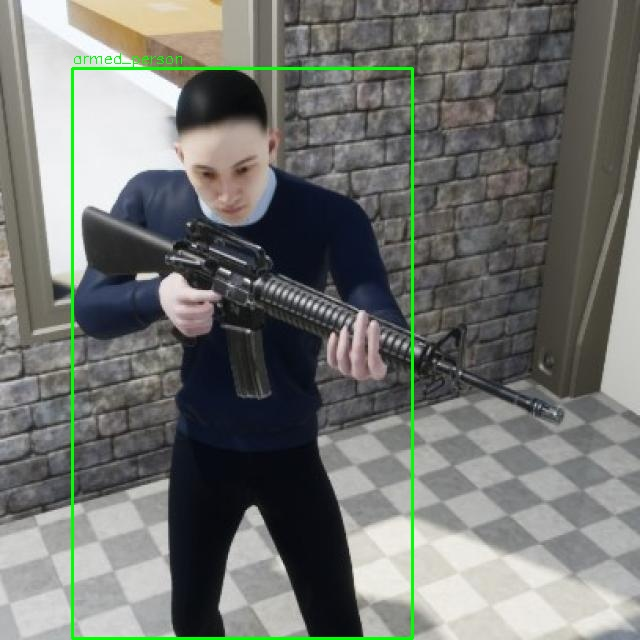
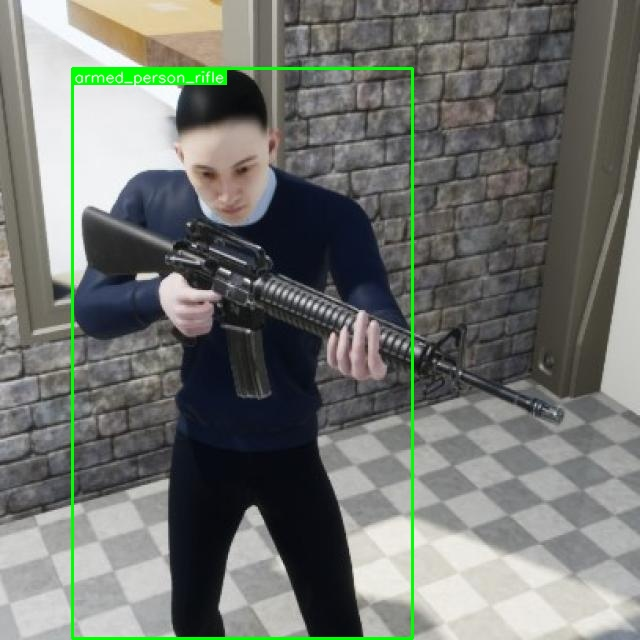
feat: distinction added

Changed region(s): [[0.0938, 0.0625, 0.375, 0.1562]]

diff --git a/detection/inference_merged_multiclass.py b/detection/inference_merged_multiclass.py
@@ -1,0 +1,110 @@
+from ultralytics import YOLO
+import glob, os
+import cv2
+from shapely.geometry import box
+
+# ─── CONFIG ───────────────────────────────────────────────────────────────────
+GUN_MODEL_PATH    = 'runs/detect/gun_detection7/weights/last.pt'
+PERSON_MODEL_PATH = 'yolov8l.pt'    # COCO-pretrained
+IMAGE_DIR         = './testset/train/images'
+OUTPUT_DIR        = './testset/train/merged_output'
+IOU_THRESHOLD     = 0.01
+CONF_GUN          = 0.5
+CONF_PERSON       = 0.5
+# ───────────────────────────────────────────────────────────────────────────────
+
+os.makedirs(OUTPUT_DIR, exist_ok=True)
+
+gun_model    = YOLO(GUN_MODEL_PATH)
+person_model = YOLO(PERSON_MODEL_PATH)
+
+def iou(a, b):
+    A = box(*a); B = box(*b)
+    inter = A.intersection(B).area
+    union = A.union(B).area
+    return inter/union if union>0 else 0
+
+for img_path in glob.glob(os.path.join(IMAGE_DIR, '*.jpg')):
+    # 1) Inference
+    gres = gun_model.predict(source=img_path,    conf=CONF_GUN,    classes=[1,2])
+    pres = person_model.predict(source=img_path, conf=CONF_PERSON, classes=[0])
+
+    # pair up each gun box with its predicted class (1=pistol, 2=rifle)
+    gun_boxes = []
+    for box_tensor, cls_tensor in zip(gres[0].boxes.xyxy, gres[0].boxes.cls):
+        xyxy = box_tensor.tolist()
+        cls  = int(cls_tensor.item())
+        gun_boxes.append((xyxy, cls))
+
+    person_boxes = pres[0].boxes.xyxy.tolist() if pres[0].boxes else []
+
+    img = cv2.imread(img_path)
+    merged = []
+
+    # 2) Match & union
+    for g_xyxy, g_cls in gun_boxes:
+        if not person_boxes:
+            continue
+        # find the person with highest IoU
+        best_p = max(person_boxes, key=lambda p: iou(g_xyxy, p))
+        if iou(g_xyxy, best_p) < IOU_THRESHOLD:
+            continue
+
+        # union the gun+person box
+        x1 = min(g_xyxy[0], best_p[0])
+        y1 = min(g_xyxy[1], best_p[1])
+        x2 = max(g_xyxy[2], best_p[2])
+        y2 = max(g_xyxy[3], best_p[3])
+
+        merged.append((int(x1), int(y1), int(x2), int(y2), g_cls))
+
+    # 3) Draw
+    for x1, y1, x2, y2, g_cls in merged:
+        if g_cls == 1:
+            label = 'armed_person_pistol'
+            color = (0,200,0)     # dark green
+        elif g_cls==2:
+            label = 'armed_person_rifle'
+            color = (0,255,0)     # bright green
+        else:
+            label = 'unarmed_person'
+            color = (0,0,255)     # red
+
+        # 1) measure text size
+        font      = cv2.FONT_HERSHEY_SIMPLEX
+        font_scale= 0.5
+        thickness = 1
+        (w, h), baseline = cv2.getTextSize(label, font, font_scale, thickness)
+        
+        # 2) choose text origin INSIDE the box
+        text_x = x1 + 2
+        text_y = y1 + h + 2   # a couple pixels below the top edge
+
+        # 3) draw a filled rect as text background
+        cv2.rectangle(
+            img,
+            (x1, y1),                     # top-left
+            (x1 + w + 4, y1 + h + 4),     # bottom-right
+            color,                        # same color as border
+            thickness=-1                  # filled
+        )
+
+        # 4) draw the box
+        cv2.rectangle(img, (x1,y1), (x2,y2), color, 2)
+
+        # 5) draw the label over that background
+        cv2.putText(
+            img, label,
+            (text_x, text_y),
+            font, font_scale,
+            (255,255,255),  # white text
+            thickness,
+            lineType=cv2.LINE_AA
+        )
+
+    # optionally draw any unmatched guns/people in thinner boxes…
+
+    # 4) Save
+    out_path = os.path.join(OUTPUT_DIR, os.path.basename(img_path))
+    cv2.imwrite(out_path, img)
+    print(f"[✓] {os.path.basename(img_path)} → {len(merged)} armed boxes")
